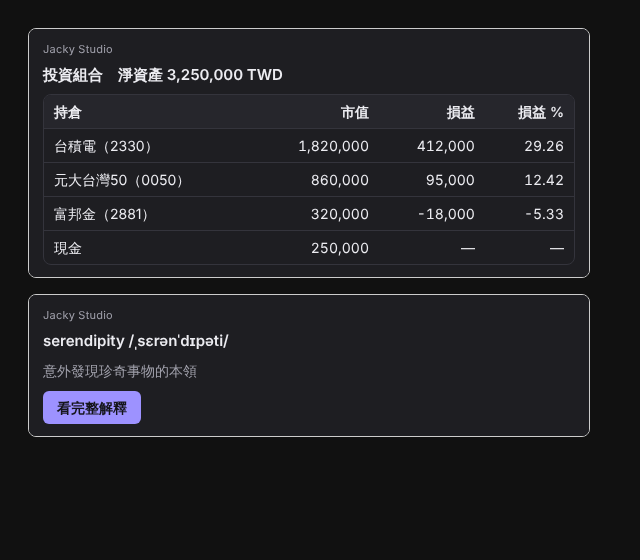
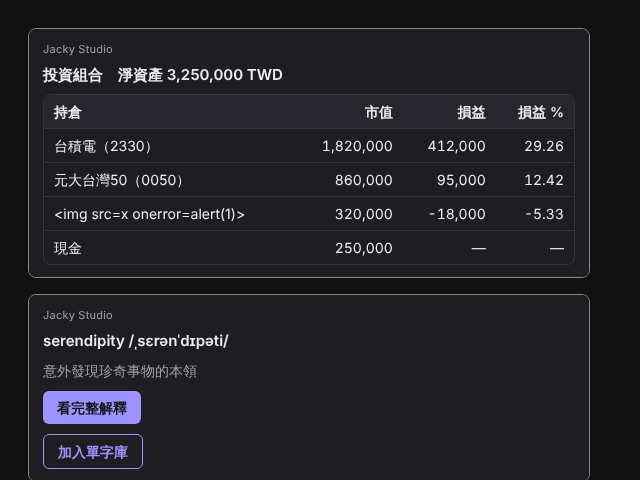
test(site-mcp): 每次呼叫用新的 arguments 物件（JsonNode 不能有兩個 parent）；MCP App 成功時只說「完成」；文件與截圖
Claude-Session: https://claude.ai/code/session_01PSrDc5Ldtm5t383f1qr5t5

Changed region(s): [[0.0312, 0.0312, 0.9375, 0.9688]]

diff --git a/JackyAIApp.Server.Tests/Services/Connectors/SiteMcp/SiteMcpServerTests.cs b/JackyAIApp.Server.Tests/Services/Connectors/SiteMcp/SiteMcpServerTests.cs
@@ -390,18 +390,18 @@ namespace JackyAIApp.Server.Tests.Services.Connectors.SiteMcp
         public async Task ACardsButton_IsOffered_OnlyWhereTheTokenMayCallItsTool()
         {
             _extra.Add(new WordCardTool());
-            var args = new JsonObject { ["word"] = "serendipity" };
+            static JsonObject WordArgs() => new() { ["word"] = "serendipity" };
 
-            var withWrites = await ResultOf(Call("word_card", args), WithWrites);
+            var withWrites = await ResultOf(Call("word_card", WordArgs()), WithWrites);
             var action = Assert.Single(withWrites["structuredContent"]!["actions"]!.AsArray())!;
             Assert.Equal("add_word", (string?)action["tool"]);
             Assert.Equal("加入單字庫", (string?)action["label"]);
             Assert.Equal("serendipity", (string?)action["arguments"]!["word"]);
 
             // A read-only token, or a write the reader turned off, has no button: the host could not call it.
-            Assert.Null((await ResultOf(Call("word_card", args), ReadOnly))["structuredContent"]!["actions"]);
+            Assert.Null((await ResultOf(Call("word_card", WordArgs()), ReadOnly))["structuredContent"]!["actions"]);
             _chosen = new() { ["add_word"] = ToolPermission.Disabled };
-            Assert.Null((await ResultOf(Call("word_card", args), WithWrites))["structuredContent"]!["actions"]);
+            Assert.Null((await ResultOf(Call("word_card", WordArgs()), WithWrites))["structuredContent"]!["actions"]);
         }
 
         [Fact]

diff --git a/JackyAIApp.Server/Services/Connectors/SiteMcp/SiteMcpApp.cs b/JackyAIApp.Server/Services/Connectors/SiteMcp/SiteMcpApp.cs
@@ -199,7 +199,7 @@ namespace JackyAIApp.Server.Services.Connectors.SiteMcp
               }
 
               // A card's buttons: each calls one of the site's tools through the host (tools/call), the reader's press
-              // being the asking. What comes back is shown as text.
+              // being the asking. A failure's text is shown (as text); a success just says so.
               function drawActions(actions) {
                 if (!Array.isArray(actions) || actions.length === 0) return;
                 var row = el("div", "actions"), note = el("span", "note");
@@ -218,8 +218,9 @@ namespace JackyAIApp.Server.Services.Connectors.SiteMcp
                         button.disabled = false;
                         note.textContent = text || "沒有成功，請再試一次。";
                       } else {
+                        // The tool's text is written for a model ("…the reader's repository"); the reader gets a plain done.
                         button.textContent = "✓ " + a.label;
-                        note.textContent = text.split("\n")[0];
+                        note.textContent = "完成";
                       }
                       reportSize();
                     }).catch(function () {

diff --git a/docs/ai-native/SHOWCASE.md b/docs/ai-native/SHOWCASE.md
@@ -46,9 +46,10 @@
 6. **安全（1 分鐘）**：在 connector 詳情把某個工具設成「停用」→ AI 說它沒有這個能力；「需確認」的工具一律出確認卡；按「停止」整輪什麼都不執行。
 7. **反過來：網站本身就是 MCP server（1 分鐘）**：/connectors 往下捲到「讓其他 AI 使用本站」→「產生 token」（名稱 Claude Code、唯讀）→ 複製「Claude Code」那一行指令貼到終端機 → 在 Claude Code 問「用 jacky-studio 查一下 serendipity，再看我今天要複習幾個字」→ 它呼叫本站的 `look_up_word`、`learning_progress`。回到 /connectors 看到 token「最後使用」更新；按「撤銷」後 Claude Code 立刻連不上。
    **或在 Claude.ai**：設定 → Connectors → 新增自訂 connector，只貼 `https://apps.jacky-studio.com/api/mcp` → 跳到本站的同意頁「Claude 想用你的身分使用 Jacky Studio 的工具，完成後會回到 claude.ai」→ 允許 → 回到 Claude.ai，工具出現。
-   接著在 Claude.ai 問「我的投資組合現在怎麼樣？」→ 回答下方出現 **Jacky Studio 的持倉表格卡片**（MCP App），問「serendipity 是什麼」→ 單字卡，按「看完整解釋」開到本站字典頁。
+   接著在 Claude.ai 問「我的投資組合現在怎麼樣？」→ 回答下方出現 **Jacky Studio 的持倉表格卡片**（MCP App），問「serendipity 是什麼」→ 單字卡，按「看完整解釋」開到本站字典頁；token 允許寫入時卡片上還有「加入單字庫」，在 Claude 裡按一下就加進本站的單字庫（MCP App 經 host 呼叫 `tools/call`）。
    ![其他 AI 的 OAuth 同意頁](screenshots/site-mcp-oauth-consent-desktop.png)
    ![MCP App：在別家 AI 裡畫出本站卡片（以 playwright 扮 host 的截圖）](screenshots/mcp-app-card-light.png)
+   ![MCP App 的「加入單字庫」按鈕](screenshots/mcp-app-action-light.png)
    ![讓其他 AI 使用本站](screenshots/site-mcp-section-desktop.png)
    ![產生 token 與設定](screenshots/site-mcp-token-desktop.png)
 8. **Stock Intelligence（30 秒）**：/finance 問一檔股票，跟以前一樣。
@@ -132,6 +133,6 @@ flowchart LR
 | 10/24 | 7 | TestKit、Google 日曆、step-up、以後直接執行、rug pull 防護 |
 | 10/24 | 8 | 本站對外的 MCP server（PAT、/connectors 的設定一鍵複製、OAuth 授權伺服器與同意頁） |
 | 10/24 | 9 | 本站 MCP server 成為 MCP App（別家 AI 裡畫出本站卡片）、OAuth 端點 rate limit、「經 OAuth 登入」標示、Studio 引導 |
-| 10/24 | 10 | taint 跨訊息保存、首頁「AI 今日簡報」（askStudio）、確認卡放在文字之後、標題列顯示工具名稱與「等你確認」、手機表格卡片、語音輸入 |
+| 10/24 | 10 | taint 跨訊息保存、首頁「AI 今日簡報」（askStudio）、確認卡放在文字之後、標題列顯示工具名稱與「等你確認」、手機表格卡片、語音輸入、MCP App 卡片上的「加入單字庫」按鈕 |
 
 截至第 6 輪：feature/ai-native 比 master 多 60+ 個 commit（不含 merge）。

diff --git a/docs/ai-native/DECISIONS.md b/docs/ai-native/DECISIONS.md
@@ -60,3 +60,4 @@
 - **D-056（2026-10-24 22:20）首頁「AI 今日簡報」＋ `askStudio`**：不另做 `daily_briefing` 工具——模型在一次回覆裡呼叫既有的三個工具（日曆、學習進度、投資組合），組合本身就是 agent 的展示，也不多一份要維護的邏輯；簡報的格式寫在 Studio 的 prompt（`StudioChatProfileTests` 鎖住工具名稱）。只在點擊時才問（每次都是一輪計費的 AI 對話）。`askStudio` 用 window event：頁面不需要拿到 App.tsx 裡唯一的 Studio 實例；Studio 不顯示的頁面什麼都不做。因為讀了日曆（`OutsideText`），簡報那個對話之後的寫入都會先問（D-055），這是預期行為。
 - **D-057（2026-10-24 22:20）確認卡的位置**：等待中的確認卡放在回答文字之後（模型寫「請確認：」後才問），且不顯示「思考中」的點點（這時是在等使用者）；回答後留在文字上方，當作「做了什麼」的紀錄。標題列的進度用工具的顯示名稱（「正在使用『查字典』」）與「⏸ 等你確認…」；Finance 的 hosted 工具沒有顯示名稱，文字照舊。
 - **D-058（2026-10-24 22:25）語音輸入用瀏覽器的 Web Speech API**，不用本站的 Whisper：不花 AI 額度與 OpenAI 餘額、不經本站伺服器、即時顯示中間結果。代價是 Firefox 沒有（按鈕不顯示），Chrome 會把聲音送到它自己的辨識服務（瀏覽器在要麥克風權限時會說明）。聽到的字放進輸入框，使用者自己按送出——不自動送出，避免辨識錯誤直接變成一輪計費的對話或寫入。
+- **D-059（2026-10-24 22:35）MCP App 卡片的按鈕（app → host `tools/call`）**：工具用 `IOffersAppActions` 說「下一步」，伺服器只放進這個 token 能呼叫的（可寫入的 token、沒被停用），App 畫成按鈕。使用者按下就是確認（中間沒有模型，不會被 prompt injection 觸發）；工具的寫入照樣經過本站的權限檢查（`OfferedAsync`）。host 不支援 app 呼叫工具時，按鈕顯示「請在對話裡請 AI 幫你做」。工具的 `_meta.ui.visibility` 不設，用預設的 `["model","app"]`。

diff --git a/docs/ai-native/design/03-connector-architecture.md b/docs/ai-native/design/03-connector-architecture.md
@@ -231,4 +231,5 @@ MCP Apps 擴充（`io.modelcontextprotocol/ui`）讓支援的 client（Claude、
 - **一個 app 畫所有卡片**（`SiteMcpApp`）：資源 `ui://jacky-studio/card.html`，`text/html;profile=mcp-app`，script 與 style 全部內嵌（不需要任何外部網域，host 預設的 CSP 就夠），只用 `textContent` 寫值（不用 innerHTML），連結只經 host 的 `ui/open-link`、只到 https。跟 host 的 `hostContext.theme` 切深淺色，內容高度用 `ui/notifications/size-changed` 回報。
 - **宣告**：`initialize` 的 capabilities 有 `resources` 與 `extensions["io.modelcontextprotocol/ui"].mimeTypes`；`tools/list` 每個工具帶 `_meta.ui.resourceUri`；`resources/list`、`resources/read`（其他 uri → -32002）。server 沒有 session，看不到 client 在 initialize 有沒有宣告支援，所以一律提供（D-050）：不支援的 client 會忽略 `_meta` 與 `structuredContent`。
 - **資料**：`tools/call` 成功且工具有卡片時，結果多一個 `structuredContent: { card }`——table 原樣，link 的 `href` 補成完整網址（本站路徑 → issuer + 路徑；只收 https）；其他 kind、不能跟的連結、超過 200k 字元則不放。文字（`content`）照舊，連結卡另外在文字後附「標題：完整網址」，讓不畫 app 的 client 也能給使用者連結。
+- **按鈕（第 10 輪，D-059）**：工具實作 `IOffersAppActions` 就能在卡片上放「下一步」（查字典 → 加入單字庫），`structuredContent.actions: [{ tool, label, arguments }]`，只放這個 token 能呼叫的；App 按下時送 `tools/call` 給 host，host 轉給本站。使用者按下就是確認。
 - **測試**：`SiteMcpServerTests` 的 MCP Apps 區塊（宣告、資源、structuredContent、HTML 不含 innerHTML 與外部載入）；畫面用 playwright 自己扮 host（`ui/initialize` → `tool-result` → `size-changed`）截圖（`screenshots/mcp-app-card-*.png`），含 `<img onerror>` 當資料時只顯示成文字。

diff --git a/JackyAIApp.Server/CLAUDE.md b/JackyAIApp.Server/CLAUDE.md
@@ -367,6 +367,10 @@ code; comments do not count). A new `Services.Something` namespace is in no modu
   host's `ui/open-link`), every tool names it in `_meta.ui`, and a result with a table or link card carries it as
   `structuredContent.card` (a link's address made whole). Being sessionless, the server cannot tell whether the client
   said it draws apps, so it always offers it; others ignore it. A link card's address also follows the text in full
+- A card can carry buttons there (`structuredContent.actions`: `{ tool, label, arguments }`): a site tool that is
+  `IOffersAppActions` names the next step (the dictionary's lookup: add the word to the repository), and the server keeps
+  only those whose tool the token may call (`SiteMcpApp.AddActions`). Pressing one sends `tools/call` from the app through
+  the host; the reader's press is the asking, with no model in between
 - `ConnectorCatalogService` answers the page (`AiConnectorsController`, `api/connectors/catalog`,
   `tool-permissions`, `installations/{id}/enabled`, `installations/{id}`, in the `{ data }` envelope; the
   account connections' endpoints of `ConnectorsController`, under the same route, are unchanged) and, as
